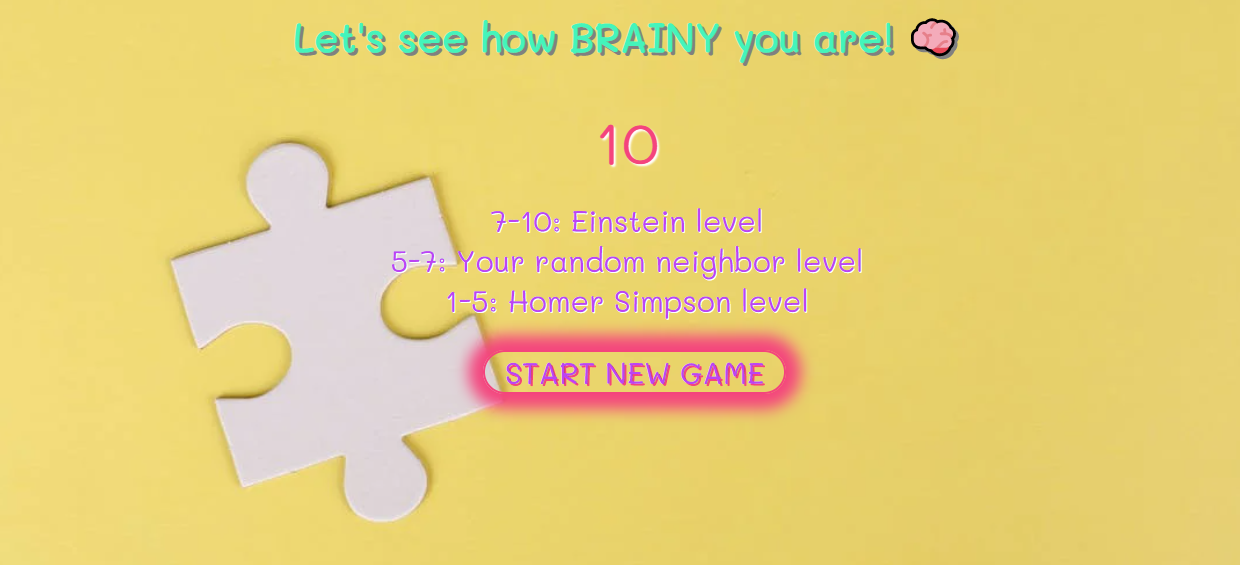
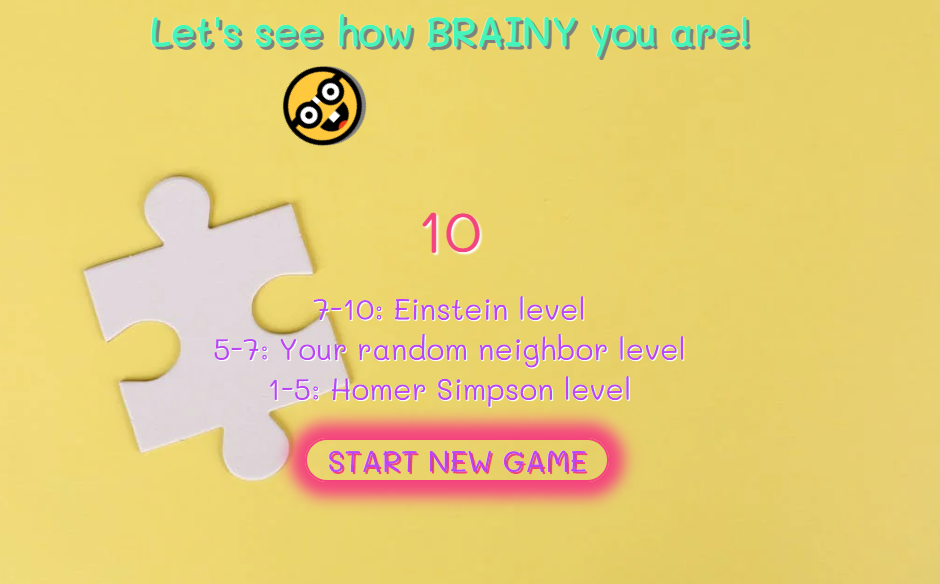
Add styling to score-section and readme file

Changed region(s): [[0.0926, 0.2407, 0.7404, 0.9327], [0.1543, 0.0301, 0.8021, 0.2708], [0.4628, 0.2106, 0.5553, 0.3009]]

diff --git a/index.html b/index.html
@@ -16,7 +16,7 @@
     <!--first displaying div-->
     <div id="welcome" class=display>
         <h1> WELCOME TO QUIZ GAME </h1>
-        <h2><span>&#129299;</span> BRAINY <span>&#129299;</span></h2>
+        <h2><span>🤓</span> BRAINY <span>🤓</span></h2>
         <h3>RULES:</h3>
         <p id="rules">In this quiz you have to answer 10 random questions. Choose one answer for each question and see
             if
@@ -35,7 +35,7 @@
     <!--second displaying div-->
     <div class="display" id="quiz">
         <div class="score-item">
-            <h2><span>&#129299;</span> BRAINY <span>&#129299;</span></h2>
+            <h2><span>🤓</span> BRAINY <span>🤓</span></h2>
             <p id="progressText">
                 Question
             </p>
@@ -44,7 +44,7 @@
             </div>
         </div>
         <div class="score-item">
-            <p id="current-score"> SCORE <span> &#128396; </span>
+            <p id="current-score"> SCORE <span> 🖌</span>
             </p>
             <div class="main-text" id="score-number">0</div>
 
@@ -70,7 +70,7 @@
     </div>
     <!--third displaying div-->
     <div class="display" id="score">
-        <h1 id="einstein">Let's see how BRAINY you are! <span> &#129504;</span> </h1>
+        <h1 id="einstein">Let's see how BRAINY you are! <div id="brain"> 🤓</div> </h1>
         <p id="number">total</p>
         <ul id="IQ">
             <li>7-10: Einstein level</li>

diff --git a/assets/css/style.css b/assets/css/style.css
@@ -50,7 +50,36 @@ h4 {
     text-align: center;
     padding-top: 20px;
     padding-bottom: 15px;
+}
 
+/*emoji animation*/
+#brain {
+    font-size: 70px;
+    animation-name: side-to-side-rotate;
+    animation-duration: 3s;
+    animation-iteration-count: infinite;
+    animation-timing-function: linear;
+    background-image: none;
+}
+
+@keyframes rotate {
+    100% {
+        transform: rotate(360deg);
+    }
+}
+
+@keyframes side-to-side-rotate {
+    0% {
+        transform: translateX(-150px);
+    }
+
+    50% {
+        transform: translateX(150px) rotate(-360deg);
+    }
+
+    100% {
+        transform: translateX(-150px) rotate(360deg);
+    }
 }
 
 #rules {

diff --git a/README.md b/README.md
@@ -8,8 +8,6 @@ The Live link to website can be found here - [BRAINY QUIZ](https://annatolchynsk
 
  Quiz game Brainy is a Fun Facts based Trivia Quiz site aimed at people who enjoy the world of interesting facts and testing their knowledge as well as learning new things. It consists of 10 multiple choice questions with a Scoreboard, so you can test your IQ and discover new interesting things.
 
----
-
  The main purpose for creating this trivia is to provide users with an entertaining place to test their knowledge and discover new FunFacts.
 
  The information and quiz can be accessed and played on all devices.
@@ -18,27 +16,27 @@ The Live link to website can be found here - [BRAINY QUIZ](https://annatolchynsk
 ### UX
 User Stories
 * As a user, I want to:
-  * be able to navigate the website easily.
-  * understand the rules of the quiz before starting the game.
-  * know how many questions there will be.
+  * be able to navigate the website easily;
+  * understand the rules of the quiz before starting the game;
+  * know how many questions there will be;
   * know my score during and after playing the quiz.
 
 * As a site owner, I want:
-  * the quiz to be easy and informative.
-  * the questions to be short but informative
-  * the website to be simple to navigate.
+  * the quiz to be easy and informative;
+  * the questions to be short and entertaining;
+  * the website to be simple to navigate;
   * the user to get a feedback on their total score.
 
 ### Strategy
 Project Purpose is 
-* to provide user with informative and fun quiz questions.
+* to provide user with informative and fun quiz questions;
 * to make users learn something new in entertaining and easy way.
 
 ### Scope 
-* a simple, straightforward UX experience.
-* a bright and fun color scheme.
-* clear content for all users.
-* a site that is visually appealing on most devices.
+* a simple, straightforward UX experience;
+* a bright and fun color scheme;
+* clear content for all users;
+* a site that is visually appealing on most devices;
 * easy rules for the quiz.
 
 ### Structure
@@ -64,8 +62,8 @@ The website is simple without any distractive images, which gives user the abili
 
 ### Future features
 
-  * Quiz section will have more available questions and a timer set for 60 seconds
-  * score section will provide feedback for particular username
+  * Quiz section will have more available questions and a timer set for 60 seconds;
+  * score section will provide feedback for particular username;
   * emojis will be animated 
   
 ---
@@ -145,6 +143,7 @@ The Live link can be found here - [BRAINY-QUIZ](https://annatolchynska.github.io
 * ### Content
   * The questions for the game were taken from [COSMOPOLITAN random facts](https://www.cosmopolitan.com/uk/worklife/a33367076/fun-facts-random/), [101 Fun Facts](https://parade.com/966564/parade/fun-facts/
 )
-  * The code for picking questions, answers and score was taken from Youtube tutorial of Brian Design [How to Make a Quiz App using HTML CSS Javascript - Vanilla Javascript Project for Beginners Tutorial](https://www.youtube.com/watch?v=f4fB9Xg2JEY&t=3469s), some ideas for functions in js file were taken from [Build A Quiz App With JavaScript](https://www.youtube.com/watch?v=riDzcEQbX6k&t=1200s) by Web Dev Simplified, 
+  * The code for picking questions, answers and score was taken from Youtube tutorial of Brian Design [How to Make a Quiz App using HTML CSS Javascript - Vanilla Javascript Project for Beginners Tutorial](https://www.youtube.com/watch?v=f4fB9Xg2JEY&t=3469s), some ideas for functions in js file were taken from [Build A Quiz App With JavaScript](https://www.youtube.com/watch?v=riDzcEQbX6k&t=1200s) by Web Dev Simplified, animation for emojis was taken from [How to Animate a Spinning Emoji with HTML & CSS | Basic Web Development Animation Tutorial](https://www.youtube.com/watch?v=tjGrSrCn_1U&t=513s) by Juni Learning.
   * Inspiration for some code ideas were taken from [W3schools](https://www.w3schools.com/default.asp), [stackoverflow](https://stackoverflow.com/), [developer.mozilla](https://developer.mozilla.org/en-US/), Slack community.
-  * The background image was taken from [Pexels](https://www.pexels.com/)
+  * Emojis were copied from [Emoji terra](https://emojiterra.com/).
+  * The background image was taken from [Pexels](https://www.pexels.com/).
